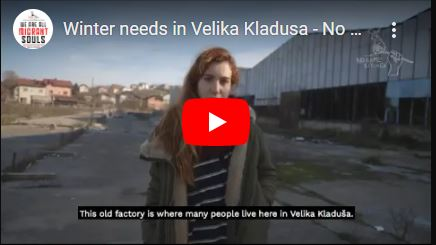
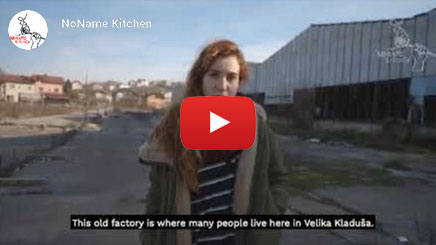
[#159] Updated images from Values

diff --git a/packages/nnk/src/components/views/HelpUs/index.js b/packages/nnk/src/components/views/HelpUs/index.js
@@ -16,10 +16,15 @@ import {
   Triodos,
   PayPal,
   Value0,
+  Value1,
   Value2
 } from '../../../assets/images';
 import { DESKTOP } from '../../../constants/devices';
+import { LEFT, RIGHT } from '../../../constants/positions';
+import { LARGE } from '../../../constants/sizes';
+import { BANK, REPORT, YOUTUBE_VIDEO } from '../../../constants/modals';
 import { StatePropType } from '../../../types';
+import { SeparatorBar } from '../HomePageModules/styles';
 import { Mail } from '../PrivacyDeclaration/styles';
 import { VideoElement } from '../HomePageModules/Main/styles';
 import {
@@ -42,17 +47,13 @@ import {
   DownloadReportButton,
   ReportImage
 } from './styles';
-import { LEFT, RIGHT } from '../../../constants/positions';
-import { SeparatorBar } from '../HomePageModules/styles';
-import { LARGE } from '../../../constants/sizes';
-import { BANK, REPORT, YOUTUBE_VIDEO } from '../../../constants/modals';
 
 const getVideoThumb = index => {
   switch (index) {
     case 0:
       return Value0;
     case 1:
-      return Value0;
+      return Value1;
     case 2:
       return Value2;
     default:

diff --git a/packages/nnk/src/assets/images/index.js b/packages/nnk/src/assets/images/index.js
@@ -51,6 +51,7 @@ export const HeroHelpMedium = require('./spots/helpUs_medium.jpg');
 export const HeroHelpSmall = require('./spots/helpUs_small.jpg');
 export const PaypalInfo = require('./others/paypal-info.jpg');
 export const Value0 = require('./others/value0.jpg');
+export const Value1 = require('./others/value1.jpg');
 export const Value2 = require('./others/value2.jpg');
 
 // --- Partners

diff --git a/packages/nnk/src/components/views/HelpUs/styles.js b/packages/nnk/src/components/views/HelpUs/styles.js
@@ -303,5 +303,6 @@ ValueTitle.displayName = 'ValueTitle';
 
 export const Video = styled.div`
   margin: 20px 0 0;
+  cursor: pointer;
 `;
 Video.displayName = 'Video';
